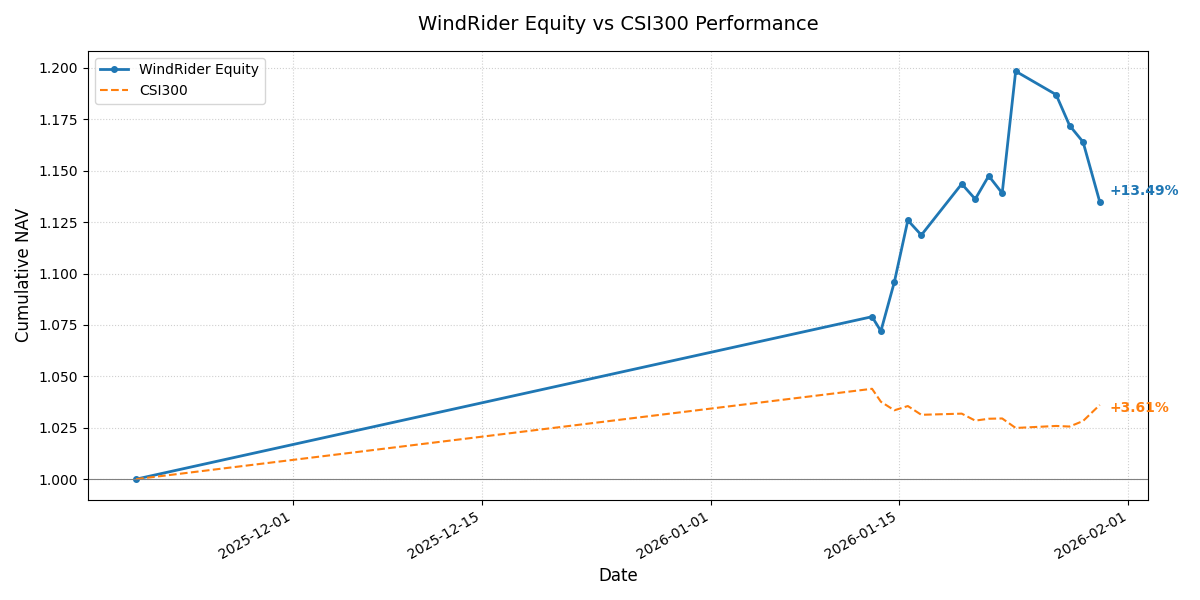
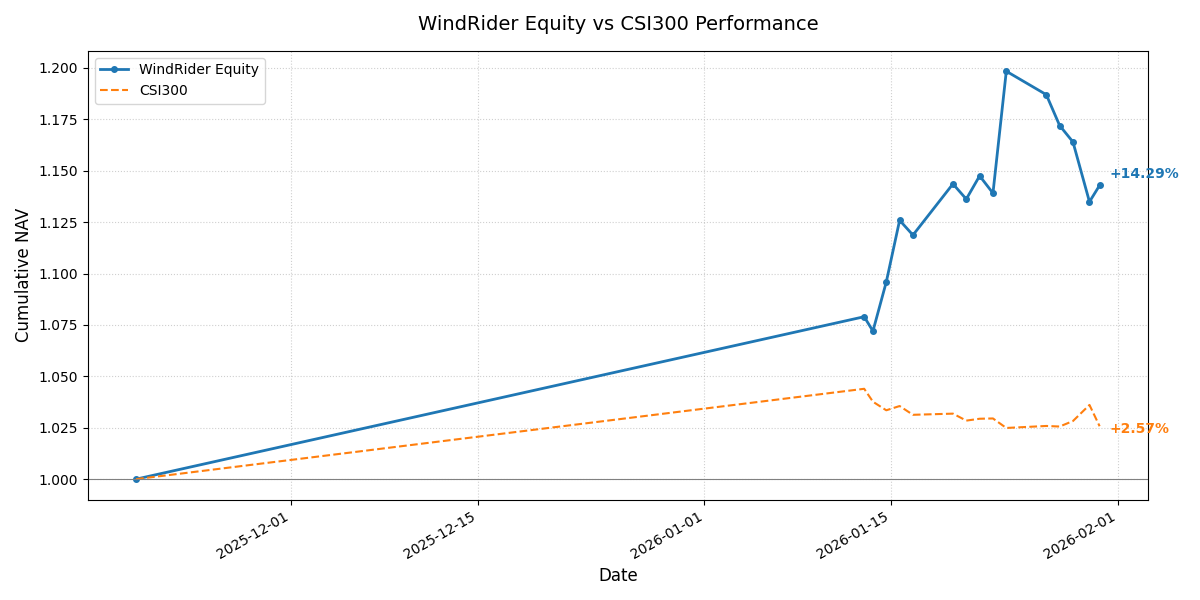
Updated Hugo site content

diff --git a/public/investment/position/index.html b/public/investment/position/index.html
@@ -66,8 +66,8 @@
   <meta property="og:locale" content="zh-cn">
   <meta property="og:type" content="article">
     <meta property="article:section" content="investment">
-    <meta property="article:published_time" content="2026-01-29T20:53:21+08:00">
-    <meta property="article:modified_time" content="2026-01-29T20:53:21+08:00">
+    <meta property="article:published_time" content="2026-01-29T20:54:39+08:00">
+    <meta property="article:modified_time" content="2026-01-29T20:54:39+08:00">
 <meta name="twitter:card" content="summary">
 <meta name="twitter:title" content="持仓 Position">
 <meta name="twitter:description" content="WindRider Stock Portfolio">
@@ -106,8 +106,8 @@
   "articleBody": " 风舵股票组合 /// 每日持仓 WindRider Equity Portfolio 净值简报 (截至: 2026-01-29)\n指数代码： WDR.EQ 成立日期： 2025-11-19 最新净值： 1.1349 今日涨跌： -2.50% ===========================\n核心表现 累计收益： +13.49% 年化收益： +91.66% 最大回撤： -5.30% 基准点位： 4753.87 (CSI300) 策略状态： 已运行 72 天 持仓明细 股票名称 成本价 现价 盈亏 占比 先导智能 300450 49.41 56.34 +14.02% 49.03% 新 和 成 002001 24.77 28.14 +13.59% 48.98% 收益率对比曲线 声明：本页面数据为实盘记录，持仓数据每日收盘后更新。\n数据仅供技术交流，不构成投资建议。\n",
   "wordCount" : "55",
   "inLanguage": "zh-cn",
-  "datePublished": "2026-01-29T20:53:21+08:00",
-  "dateModified": "2026-01-29T20:53:21+08:00",
+  "datePublished": "2026-01-29T20:54:39+08:00",
+  "dateModified": "2026-01-29T20:54:39+08:00",
   "mainEntityOfPage": {
     "@type": "WebPage",
     "@id": "https://hankou.com/investment/position/"
@@ -191,7 +191,7 @@
     <div class="post-description">
       WindRider Stock Portfolio
     </div>
-    <div class="post-meta"><span title='2026-01-29 20:53:21 +0800 CST'>January 29, 2026</span>
+    <div class="post-meta"><span title='2026-01-29 20:54:39 +0800 CST'>January 29, 2026</span>
 
 </div>
   </header> 

diff --git a/public/investment/index.html b/public/investment/index.html
@@ -152,7 +152,7 @@
   <div class="entry-content">
     <p>主动管理型股票组合。对标沪深300指数，采用基本面选股策略。</p>
   </div>
-  <footer class="entry-footer"><span title='2026-01-29 20:53:21 +0800 CST'>January 29, 2026</span></footer>
+  <footer class="entry-footer"><span title='2026-01-29 20:54:39 +0800 CST'>January 29, 2026</span></footer>
   <a class="entry-link" aria-label="post link to 持仓 Position" href="https://hankou.com/investment/position/"></a>
 </article>
 

diff --git a/content/investment/position.md b/content/investment/position.md
@@ -1,8 +1,8 @@
 +++
 title = "持仓 Position"
 summary = "主动管理型股票组合。对标沪深300指数，采用基本面选股策略。"
-date = 2026-01-29T20:54:39+08:00
-lastmod = 2026-01-29T20:54:39+08:00
+date = 2026-01-30T15:10:05+08:00
+lastmod = 2026-01-30T15:10:05+08:00
 draft = false
 description = "WindRider Stock Portfolio"
 +++
@@ -12,30 +12,30 @@ description = "WindRider Stock Portfolio"
 
 ### 风舵股票组合 &nbsp;&nbsp;<span style="color: #E63946; font-weight: bold;">/</span><span style="color: #F1A73E; font-weight: bold;">/</span><span style="color: #000091; font-weight: bold;">/</span>&nbsp;&nbsp; 每日持仓
 WindRider Equity Portfolio <br>
-净值简报 <small>(截至: 2026-01-29)</small>
+净值简报 <small>(截至: 2026-01-30)</small>
 
 |  |  |
 | :--- | :--- |
 | **指数代码：** | WDR.EQ |
 | **成立日期：** | 2025-11-19 |
-| **最新净值：** | 1.1349 |
-| **今日涨跌：** | -2.50% |
+| **最新净值：** | 1.1429 |
+| **今日涨跌：** | +0.70% |
 
 ===========================
 
 | 核心表现 | |
 | :--- | :--- |
-| **累计收益：** | +13.49% |
-| **年化收益：** | +91.66% |
+| **累计收益：** | +14.29% |
+| **年化收益：** | +96.82% |
 | **最大回撤：** | -5.30% |
-| **基准点位：** | 4753.87 (CSI300) |
-| **策略状态：** | 已运行 72 天 |
+| **基准点位：** | 4706.34 (CSI300) |
+| **策略状态：** | 已运行 73 天 |
 
 ### 持仓明细
 | 股票名称 | 成本价 | 现价 | 盈亏 | 占比 |
 | :--- | :--- | :--- | :--- | :--- | :--- |
-| 先导智能 <small>300450</small> | 49.41 | 56.34 | <span style="color:#E63946">+14.02%</span> | 49.03% |
-| 新 和 成 <small>002001</small> | 24.77 | 28.14 | <span style="color:#E63946">+13.59%</span> | 48.98% |
+| 先导智能 <small>300450</small> | 49.41 | 57.71 | <span style="color:#E63946">+16.79%</span> | 49.87% |
+| 新 和 成 <small>002001</small> | 24.77 | 27.86 | <span style="color:#E63946">+12.46%</span> | 48.15% |
 
 <br>
 
